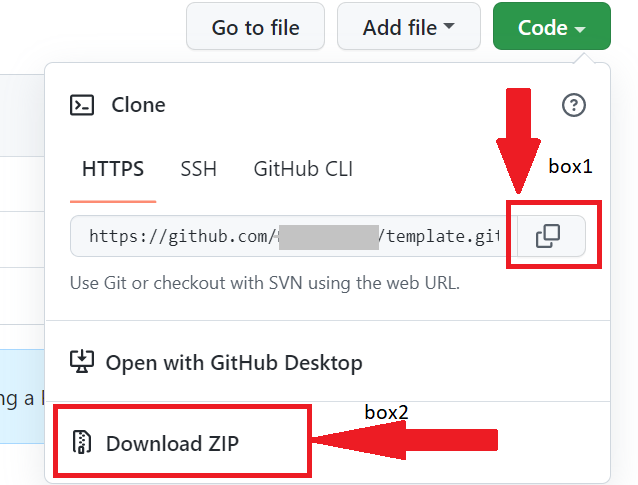
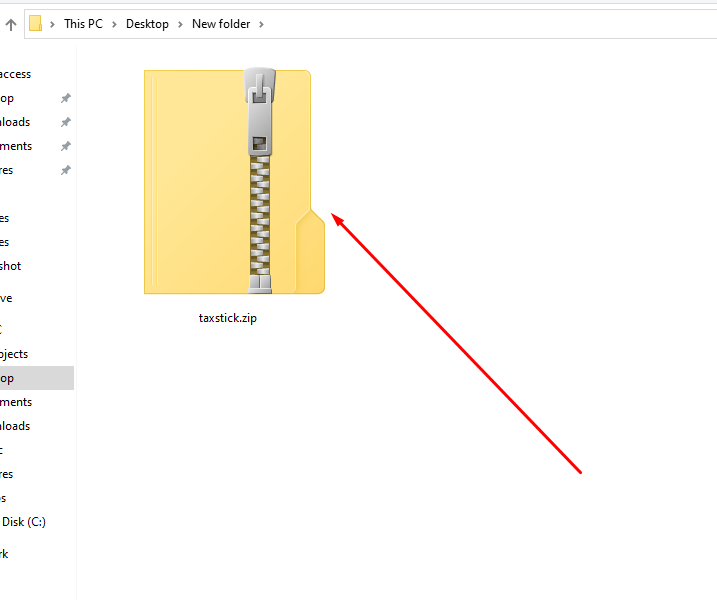
backend deploy step inclued

diff --git a/pages/instruction/install/index.js b/pages/instruction/install/index.js
@@ -4,53 +4,81 @@ import AdminLayout from '../../../layout/adminLayout';
 const Install = () => {
     return (
         <AdminLayout>
-            <div className='bg-gray-50 h-auto m-6 w-[90%] text-[16px]'>
+            <div className='bg-gray-50 h-auto m-6 w-[90%] text-[16px] p-2'>
                 <h4 className='text-center'>Installing Process</h4>
                 <div className='my-4'>
-                    <h5 className='border-b-[1px] border-black'>Install</h5>
+                    <h5 className='border-b-[1px] border-black pb-2'>Install</h5>
                     <div className='m-4'>
+                        <h6 className='text-red-600 border-b-[1px] border-red-600 text-center pb-2'>*To setup this project, you need to make sure that your hosting server supports node.js</h6>
                         <ul className='list-disc'>
-                            <li>First , You have to open Visual Studio Code, if you have no idea to intall Visual Studio Code <a href="https://code.visualstudio.com/" target='_blank' rel="noreferrer">Click here</a></li>
-                            <li>Then, You have to clone or download the project, If you want to clone the project Click he box 1 or download the zip file click box 2.
-                                <img className='h-auto w-auto' src="/images/i1.png" alt="" />
+                            <li className='my-4'>First, You have to Download the file, You can get a zip file.
+                                <img className='h-[500px] w-auto mt-4' src="/images/i1.png" alt="" />
                             </li>
-                            <p className='border-b-[1px] border-black my-4'>Backend</p>
+                            <li className='my-4'>Then, You have to <span className='text-[20px] font-bold text-red-500'>Extract All</span> the file .
+                                <img className='h-[500px] w-auto mt-4' src="/images/i2.png" alt="" />
+                            </li>
+                            <li className='my-4'>Then, You can getTwo file <span className='text-[20px] font-bold text-red-500'>1. taxstick-backend</span> and <span className='text-[20px] font-bold text-red-500'>2. taxstick-frondend</span> .
+                                <img className='h-[500px] w-auto mt-4' src="/images/i3.png" alt="" />
+                            </li>
+                            <p className='border-b-[1px] border-black my-4 text-[20px] font-bold text-red-500 p-2'>Backend</p>
+                            <li className='my-4'>Then you need to deploy the backend in your Domain or subdomain at first. <span className='italic'> But we recommend subdomains actually, For example,<span className=' text-red-400'>backend.your_main_domain@something.com.</span></span>
+                                <br /> But for deployment, you need to zip the backend file at first.
+                                <img className='h-[500px] w-auto mt-4' src="/images/i4.png" alt="" />
+                            </li>
+                            <li className='my-4'>Then you have to go to your server panel or cPanel, then click the upload button.
+                                <img className='h-[500px] w-auto mt-4' src="/images/b1.png" alt="" />
+                            </li>
+                            <li className='my-4'>After clicking upload button, you can get this type of window and you have to select upload button.
+                                <img className='h-[500px] w-auto mt-4' src="/images/b2.png" alt="" />
+                            </li>
+                            <li className='my-4'>Then select <span className='italic text-red-400'>taxstick-backend.zip</span>  file and click open button.
+                                <img className='h-[500px] w-auto mt-4' src="/images/b3.png" alt="" />
+                            </li>
+                            <li className='my-4'>Then select the Upload button and your project will start uploading to your hosting server.
+                                <img className='h-[500px] w-auto mt-4' src="/images/b4.png" alt="" />
+                            </li>
+                            <li className='my-4'>After finishing uploading, close the window
+                                <img className='h-[500px] w-auto mt-4' src="/images/b5.png" alt="" />
+                            </li>
+                            <li className='my-4'>Then select the file and <span className='italic text-red-400'>Unzip</span> it on the server,
+                                <img className='h-[500px] w-auto mt-4' src="/images/b6.png" alt="" />
+                            </li>
+                            <li className='my-4'> Then you can see the <span className='italic text-red-400'>decompress window</span>  and click the confirm button, your file is now unzipped,
+                                <img className='h-[500px] w-auto mt-4' src="/images/b7.png" alt="" />
+                            </li>
+                            <li className='my-4'> Now your file is finally uploaded to your server.
+                                <img className='h-[500px] w-auto mt-4' src="/images/b8.png" alt="" />
+                            </li>
+                            <li className='my-4'> Then you can find the <span className='italic text-red-400'> Website</span> button in the sidebar and click on it .
+                                <img className='h-[500px] w-auto mt-4' src="/images/b9.png" alt="" />
+                            </li>
+                            <li className='my-4'> Then you can find the <span className='italic text-red-400'> Node Product</span> button on the top of the page and click it first. Then click <span className='italic text-red-400'> add node project</span> button
+                                <img className='h-[500px] w-auto mt-4' src="/images/b10.png" alt="" />
+                            </li>
+                            <li className='my-4'> Then click the pointed button, 
+                            <ul className='list-disc'>
+                                <li>to select your folder path,</li>
+                                <li> fill up the Name,</li>
+                                <li>do not give line space in the name,</li>
+                                <li>select the port,</li>
+                                <li>select node version, </li>
+                                <li>and give your domain name</li>
+                            </ul>
+                            Then click on confirm button. Make sure all information is correct 
+                                <img className='h-auto w-auto mt-4' src="/images/b11.png" alt="" />
+                            </li>
+                            <li className='my-4'> Then click the file and right-click on your mouse, then you can get a new window
+                                <img className='h-[500px] w-auto mt-4' src="/images/b12.png" alt="" />
+                            </li>
+                            <li className='my-4'> Then Click SSL, then select two checkboxes and apply them
+                                <img className='h-[500px] w-auto mt-4' src="/images/b13.png" alt="" />
+                            </li>
+                            <li className='my-4'> Then you can see on the top of the window a Force HTTPS switch, pleace click it on
+                                <img className='h-auto w-auto mt-4' src="/images/b14.png" alt="" />
+                            </li>
+                            <h6 className='text-red-600 p-4  border-[1px] border-red-600 text-center'>Now your backend project is ready to use. Please copy your subdomain URL to run your frontend project, For example ,<span className=' italic'>backend.your_main_domain@something.com.</span></h6>
+                            <p className='border-b-[1px] border-black my-4 text-[20px] font-bold text-red-500 p-2'>Forentend</p>
                             <li>
-                                If download Zip File,
-                                <ul className='list-disc'>
-                                    <li>First Extact the file and open it in Visual Studio Code.</li>
-                                    <li>then open terminal window and give the command <span className='text-red-500 text-[20px]'>npm install -g yarn</span>, press enter,for intall yarn</li>
-                                    <li>After yarn install, give <span className='text-red-500 text-[20px]'>yarn</span> command, press enter, for intall necessary modules and package</li>
-                                    <li>After complete Installation, to run the project give<span className='text-red-500 text-[20px]'> yarn start </span>command, you project will run on your browser in http://localhost:3000/  port</li>
-                                </ul>
-                            </li>
-                            <li>If you have to clone the project:
-                                <ul className='list-disc'>
-                                    <li>First you need to install git bash <a href="https://git-scm.com/downloads" target='_blank' rel="noreferrer">Click here to download Git bash</a></li>
-                                    <li>After git bash install complete, you have to open Visual Studio Code and open the terminal window, then copy clone the project url and paste it with the command <span className='text-red-500 text-[20px]'> git clone (project url) </span>hit enter</li>
-                                    <li>then open terminal window and give the command <span className='text-red-500 text-[20px]'>npm install -g yarn</span>, press enter,for intall yarn</li>
-                                    <li>After yarn install, give <span className='text-red-500 text-[20px]'>yarn</span> command, press enter, for intall necessary modules and package</li>
-                                    <li>After complete Installation, to run the project give<span className='text-red-500 text-[20px]'> yarn start </span>command, you project will run on your browser in http://localhost:3000/  port</li>
-                                </ul>
-                            </li>
-                            <p className='border-b-[1px] border-black my-4'>Forentend</p>
-                            <li>
-                                If download Zip File,
-                                <ul className='list-disc'>
-                                    <li>First Extact the file and open it in Visual Studio Code.</li>
-                                    <li>then open terminal window and give the command <span className='text-red-500 text-[20px]'>npm install -g yarn</span>, press enter,for intall yarn</li>
-                                    <li>After yarn install, give <span className='text-red-500 text-[20px]'>yarn</span> command, press enter, for intall necessary modules and package</li>
-                                    <li>After complete Installation, to run the project give<span className='text-red-500 text-[20px]'> yarn dev </span>command, you project will run on your browser in http://localhost:3000/  port</li>
-                                </ul>
-                            </li>
-                            <li>If you have to clone the project:
-                                <ul className='list-disc'>
-                                    <li>First you need to install git bash <a href="https://git-scm.com/downloads" target='_blank' rel="noreferrer">Click here to download Git bash</a></li>
-                                    <li>After git bash install complete, you have to open Visual Studio Code and open the terminal window, then copy clone the project url and paste it with the command <span className='text-red-500 text-[20px]'> git clone (project url) </span>hit enter</li>
-                                    <li>then open terminal window and give the command <span className='text-red-500 text-[20px]'>npm install -g yarn</span>, press enter,for intall yarn</li>
-                                    <li>After yarn install, give <span className='text-red-500 text-[20px]'>yarn</span> command, press enter, for intall necessary modules and package</li>
-                                    <li>After complete Installation, to run the project give<span className='text-red-500 text-[20px]'> yarn dev </span>command, you project will run on your browser in http://localhost:3000/  port</li>
-                                </ul>
                             </li>
                         </ul>
                     </div>

diff --git a/pages/user/fileAC/index.js b/pages/user/fileAC/index.js
@@ -8,7 +8,7 @@ const FIleFormAC = () => {
                 <div className='my-4'>
                     <h5 className='border-b-[1px] border-black'>File From A/C Page</h5>
                     <div className='m-4'>
-                        <p>On this page, the user will see all his files in a table.</p>
+                        <p>The user will see his complete file on this page in the table. You can download your files from here. Again if any problem is shown in your file then you can take a review</p>
                         <img className='h-auto w-auto' src='/images/file1.png' alt="" />
                     </div>
                 </div>
